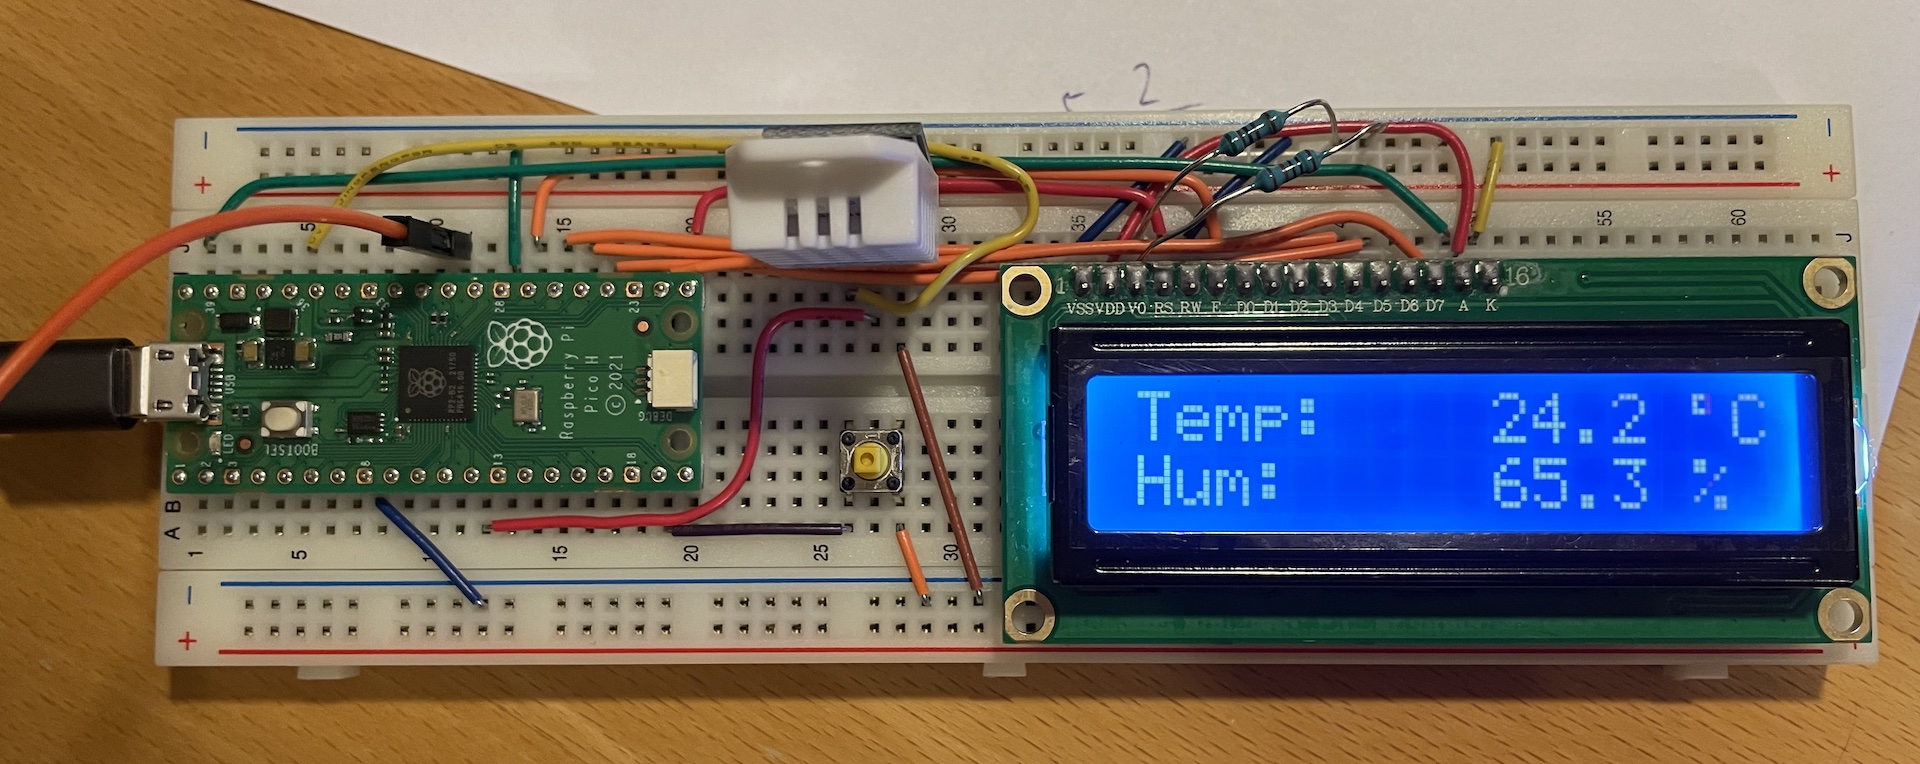
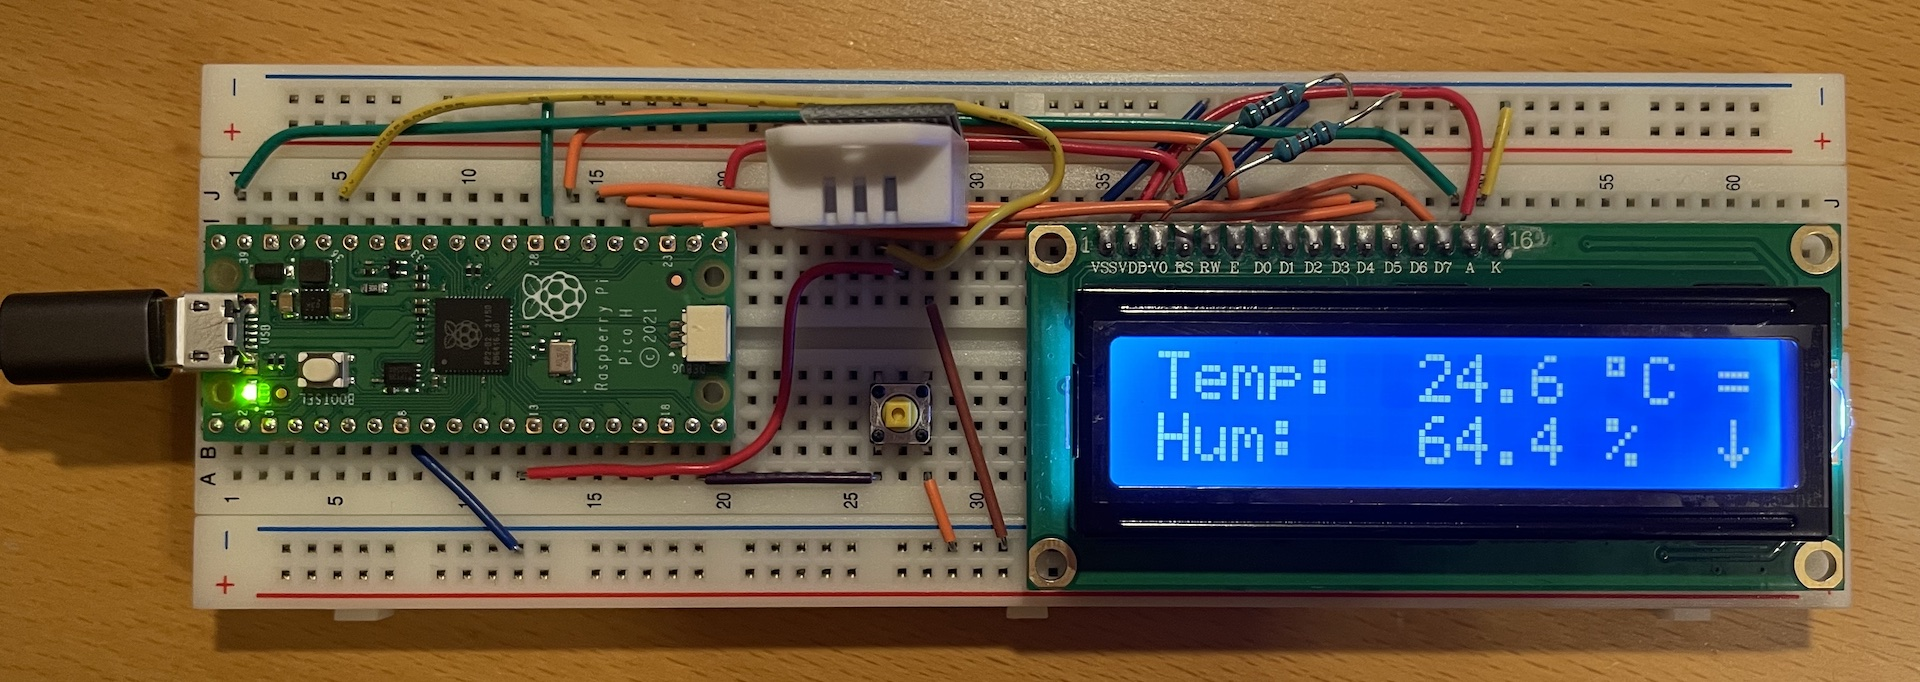
feat: trend indicator

diff --git a/src/app.c b/src/app.c
@@ -3,6 +3,14 @@
 #include "pico/stdlib.h"
 #include "app.h"
 
+// arrow down custom char
+#define ARROW_DOWN_CHAR 0x01
+const uint8_t ARROW_DOWN_PATTERN[] = { 0x04, 0x04, 0x04, 0x04, 0x15, 0x0E, 0x04, 0x00 };
+
+// arrow up custom char
+#define ARROW_UP_CHAR 0x02
+const uint8_t ARROW_UP_PATTERN[] = { 0x04, 0x0E, 0x15, 0x04, 0x04, 0x04, 0x04, 0x00 };
+
 // char code for degree symbol on lcd1602
 const char DEGREE_CHAR = 223;
 
@@ -18,10 +26,18 @@ static uint sw_pin = 0;
 // switch timestamp in us for debounce and longpress detection
 static uint32_t sw_pressed_since = 0;
 
+// tendency (mapped char values)
+typedef enum tendency {
+    STEADY = '=',
+    RISING = ARROW_UP_CHAR,
+    FALLING = ARROW_DOWN_CHAR,
+} tendency_t;
+
 // thermometer data
 static struct {
     int16_t current_temp, min_temp, max_temp;
     uint16_t current_hum, min_hum, max_hum;
+    tendency_t temp_tendency, hum_tendency;
 } data = {0};
 
 // gpio irq callback for switch
@@ -40,10 +56,12 @@ static void update_display(lcd1602_t *lcd) {
     char buffer[17];
     switch (display_mode) {
         case CURRENT: // default screen - current measurements
-            snprintf(buffer, 17, "Temp:   %3d.%d %cC", (data.current_temp / 10) % 100, abs(data.current_temp) % 10, DEGREE_CHAR);
+            snprintf(buffer, 17, "Temp: %3d.%d %cC %c",
+                (data.current_temp / 10) % 100, abs(data.current_temp) % 10, DEGREE_CHAR, data.temp_tendency);
             lcd1602_clear_display(lcd);
             lcd1602_write_string(lcd, buffer);
-            snprintf(buffer, 17, "Hum:     %2d.%d %%", (data.current_hum / 10) % 100, data.current_hum % 10);
+            snprintf(buffer, 17, "Hum:   %2d.%d %%  %c",
+                (data.current_hum / 10) % 100, data.current_hum % 10, data.hum_tendency);
             lcd1602_set_cursor_pos(lcd, 1, 0);
             lcd1602_write_string(lcd, buffer);
             break;
@@ -69,7 +87,11 @@ void app_dispose() {
 }
 
 // init app with switch pin and initial values
-void app_init(uint pin, int16_t temp, int16_t hum) {
+void app_init(lcd1602_t *lcd, uint pin, int16_t temp, int16_t hum) {
+    // load custom chars
+    lcd1602_set_custom_char(lcd, ARROW_DOWN_CHAR, ARROW_DOWN_PATTERN);
+    lcd1602_set_custom_char(lcd, ARROW_UP_CHAR, ARROW_UP_PATTERN);
+
     // switch config
     sw_pin = pin;
     gpio_init(sw_pin);
@@ -80,6 +102,7 @@ void app_init(uint pin, int16_t temp, int16_t hum) {
     // set initial values
     data.min_temp = data.max_temp = data.current_temp = temp;
     data.min_hum = data.max_hum = data.current_hum = hum;
+    data.temp_tendency = data.hum_tendency = STEADY;
     display_needs_update = true;
 }
 
@@ -103,9 +126,17 @@ void app_task(lcd1602_t *lcd) {
 // update thermometer data
 void app_update_data(int16_t temp, int16_t hum) {
     if (temp == data.current_temp && hum == data.current_hum) return; // no change
+
+    if (temp < data.current_temp) { data.temp_tendency = FALLING; }
+    else if (temp > data.current_temp) { data.temp_tendency = RISING; }
+    else { data.temp_tendency = STEADY; }
     data.current_temp = temp;
     if (temp < data.min_temp) data.min_temp = temp;
     if (temp > data.max_temp) data.max_temp = temp;
+
+    if (hum < data.current_hum) { data.hum_tendency = FALLING; }
+    else if (hum > data.current_hum) { data.hum_tendency = RISING; }
+    else { data.hum_tendency = STEADY; }
     data.current_hum = hum;
     if (hum < data.min_hum) data.min_hum = hum;
     if (hum > data.max_hum) data.max_hum = hum;

diff --git a/src/lcd1602.c b/src/lcd1602.c
@@ -84,6 +84,17 @@ void lcd1602_set_cursor_pos(lcd1602_t *lcd, uint8_t row, uint8_t col) {
     send_8bit(lcd, 0, 0x80 | address);
 }
 
+// set custom character
+void lcd1602_set_custom_char(lcd1602_t *lcd, uint8_t index, const uint8_t *pattern) {
+    // RS D7 D6 D5 D4 D3 D2 D1 D0
+    //  0  0  1 A5 A4 A3 A2 A1 A0
+    send_8bit(lcd, 0, 0x40 | (index * 8)); // set cgram address
+    for (int i = 0; i < 8; i++) {
+        send_8bit(lcd, 1, pattern[i]); // send cgram data
+    }
+    send_8bit(lcd, 0, 0x80); // reset cursor -> use ddram
+}
+
 // set display, cursor, blink on/off
 void lcd1602_set_display_on(lcd1602_t *lcd, bool display, bool cursor, bool blink) {
     // RS D7 D6 D5 D4 D3 D2 D1 D0

diff --git a/src/lcd1602.h b/src/lcd1602.h
@@ -25,6 +25,9 @@ void lcd1602_init(lcd1602_t *lcd);
 // set cursor position
 void lcd1602_set_cursor_pos(lcd1602_t *lcd, uint8_t row, uint8_t col);
 
+// set custom character
+void lcd1602_set_custom_char(lcd1602_t *lcd, uint8_t index, const uint8_t *pattern);
+
 // set display, cursor, blink on/off
 void lcd1602_set_display_on(lcd1602_t *lcd, bool display, bool cursor, bool blink);
 

diff --git a/src/main.c b/src/main.c
@@ -57,7 +57,7 @@ int main() {
     while (!dht22_is_ready(&dht) && !dht22_has_error(&dht)) dht22_task(&dht);
 
     // app init
-    app_init(SW_PIN, dht22_get_temperature(&dht), dht22_get_humidity(&dht));
+    app_init(&lcd, SW_PIN, dht22_get_temperature(&dht), dht22_get_humidity(&dht));
 
     // runloop
     while (1) {

diff --git a/src/app.h b/src/app.h
@@ -9,7 +9,7 @@
 void app_dispose();
 
 // init app with switch pin and initial values
-void app_init(uint sw_pin, int16_t temperature, int16_t humidity);
+void app_init(lcd1602_t *lcd, uint sw_pin, int16_t temperature, int16_t humidity);
 
 // app task to be called in runloop
 void app_task(lcd1602_t *lcd);

diff --git a/README.md b/README.md
@@ -6,6 +6,7 @@ I challenged myself to write the drivers from scratch based on some crappy china
 
 ## Features
 - Display current temperature and humidity (updates every 30s)
+- Trend indicator: steady, rising, falling
 - Minimum and maximum values, press switch to toggle screen, hold switch to reset values
 - Maybe some bugs because embedded is *fun*
 
